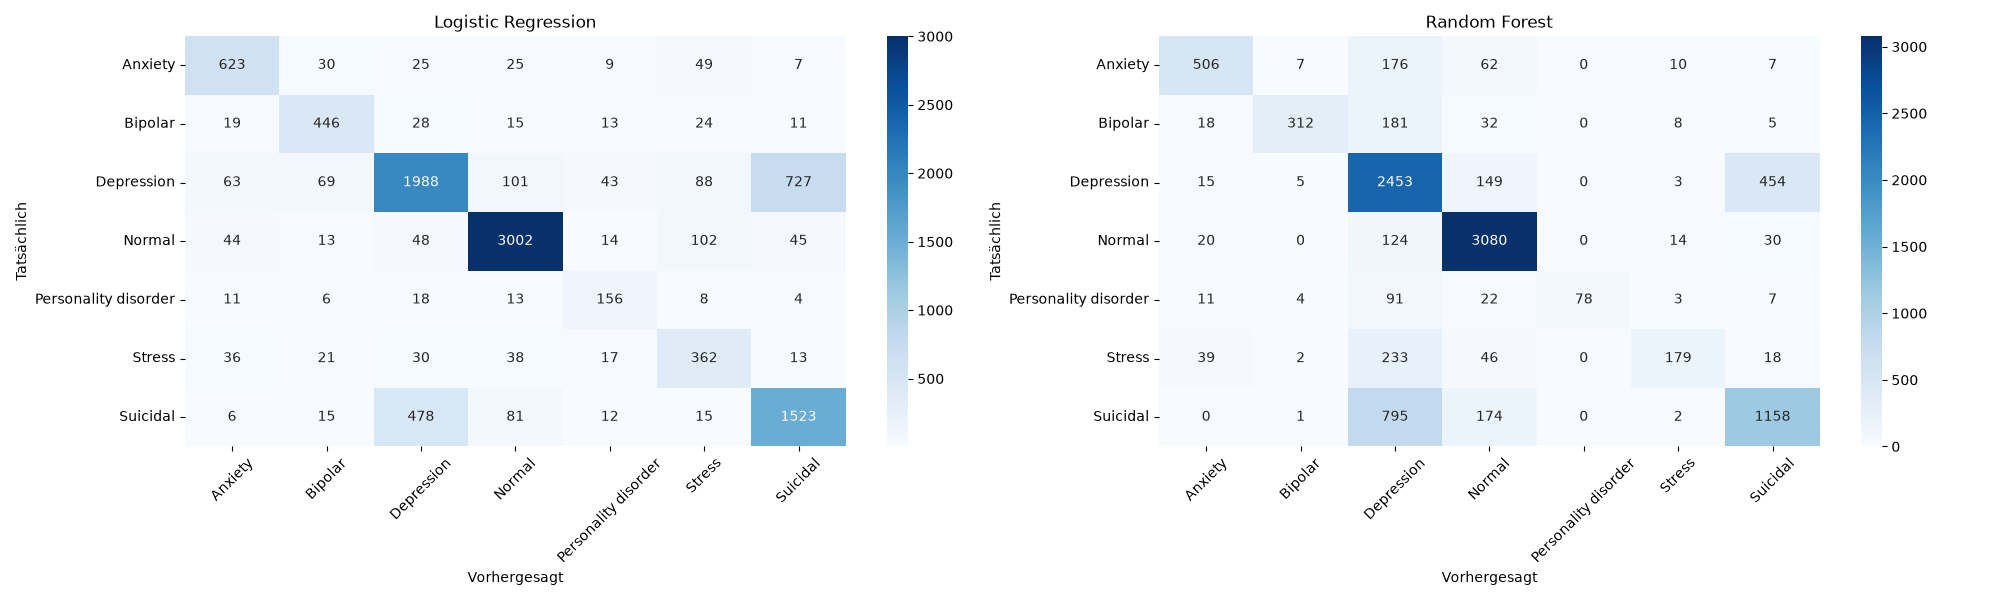
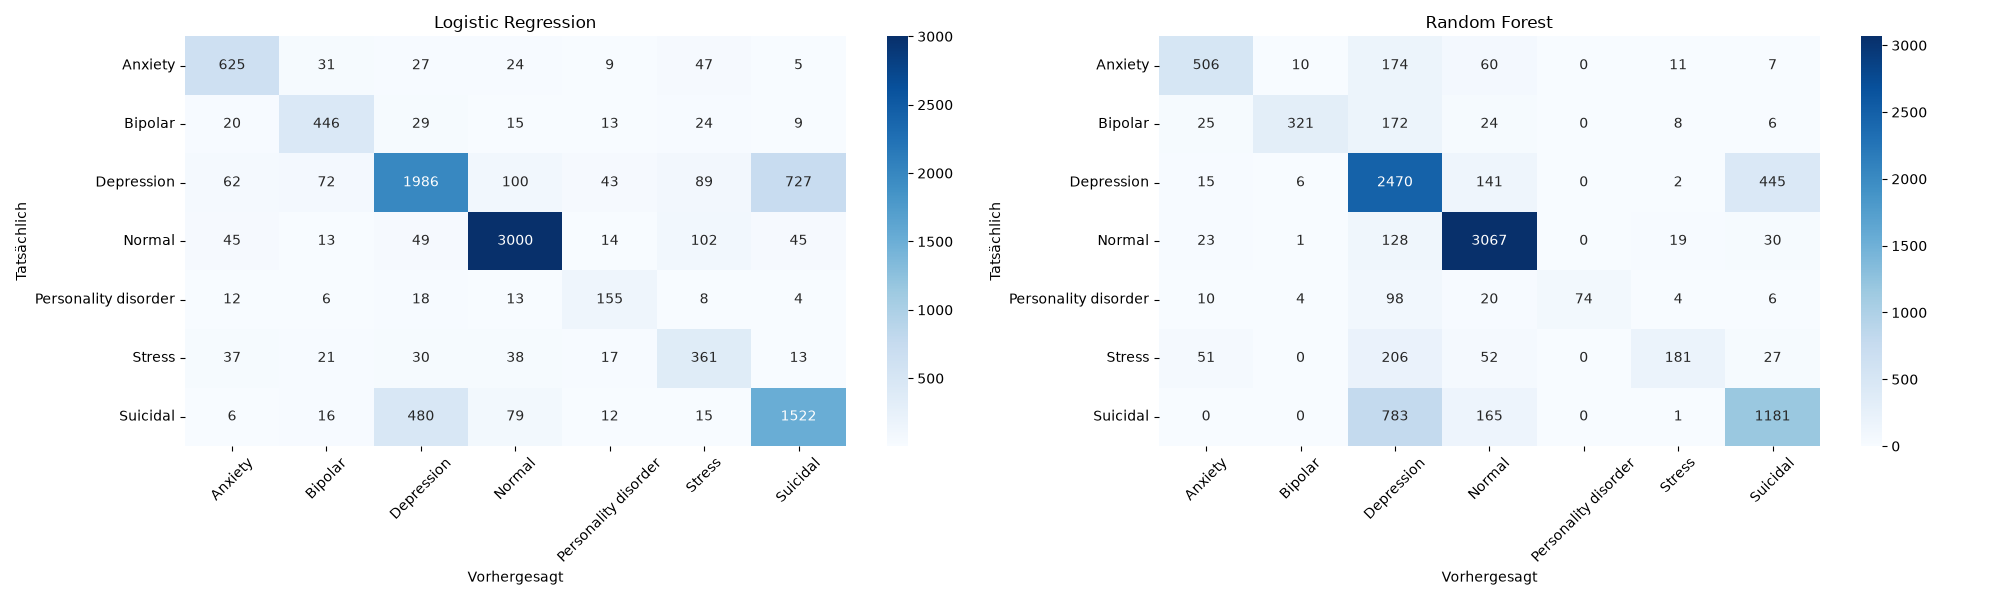
klassifikation_test.py gebaut. Grafiken erstellt

diff --git a/src/klassifikation_test.py b/src/klassifikation_test.py
@@ -1,0 +1,248 @@
+import pandas as pd
+import numpy as np
+from sklearn.preprocessing import StandardScaler
+from sklearn.linear_model import LogisticRegression
+from sklearn.ensemble import RandomForestClassifier
+from sklearn.metrics import classification_report, confusion_matrix
+from sklearn.feature_extraction.text import TfidfVectorizer
+from scipy.sparse import hstack, csr_matrix
+import matplotlib.pyplot as plt
+import seaborn as sns
+
+import os
+os.makedirs("../output/klassifikation_model_compar", exist_ok=True)
+
+import nltk
+from nltk.corpus import stopwords
+nltk.download('stopwords', quiet=True)
+
+from datenbereinigung import clean_data
+from feature_builder import create_all_features
+from training_test import train_testdaten_split
+
+
+# Daten laden & Feature bauen (einmal, wird von allen Experimenten geteilt)
+
+df0 = clean_data()
+df0, all_target_words = create_all_features(df0)
+train_df, test_df = train_testdaten_split(df0)
+
+macro_features = [
+    'word_count',
+    # 'pronoun_dominance',
+    # 'absolutist_ratio',
+    # 'absolute_uncertain_ratio',
+    # 'time_focus_score',
+    # 'future_count',
+    # 'past_count',
+    'self_pronouns_count',
+    'first_pl_pr_count',
+    'second_pronouns_count',
+    'third_pr_count',
+    'other_pl_pr_count',
+    'self_pr_other_count',
+    'question_marks_count',
+    'ellipses_count',
+    'exclamation_marks_count',
+    'sleep_words',
+]
+
+word_frequency_features = [col for col in df0.columns if col.startswith('freq_')]
+feature_cols = macro_features + word_frequency_features
+
+y_train = train_df['status']
+y_test = test_df['status']
+
+# Custom Stoppwörter: Negationen & Signalwörter bewusst BEHALTEN
+stop = set(stopwords.words('english'))
+keep = {'no', 'not', 'nor', 'never', 'none', 'nothing', 'cannot',
+        "n't", 'without', 'against'}
+custom_stop = stop - keep
+
+status_labels = sorted(df0['status'].unique())
+
+
+# Klassifikationsevaluation
+
+def classification_evaluation(vectorizer,
+                   models: dict,
+                   name: str = "",
+                   gewichtungs_faktor: float = 2,
+                   plot_confusion: bool = False,
+                   save_path: str = None) -> dict:
+
+    """
+    Trainiert & evaluiert Modelle mit gegebenem Vectorizer + numerischen Features.
+
+    Parameter
+    ---------
+    vectorizer : ein (noch nicht gefitteter) TfidfVectorizer o.Ä.
+                 -> die Vectorizer-Ebene passt du hier an (stop_words, ngram_range,
+                    max_features, ...).
+    models     : dict {name: modell-instanz}
+                 -> die Modell-Ebene passt du hier an (class_weight, C, ...).
+    name       : Beschriftung des Experiments (erscheint im Report & Plot-Titel).
+    gewichtungs_faktor : Faktor, mit dem die (skalierten) numerischen Features
+                 hochgewichtet werden, bevor sie mit TF-IDF kombiniert werden.
+    plot_confusion : wenn True, wird pro Experiment eine Confusion-Matrix-Grafik
+                 (ein Subplot pro Modell) erzeugt.
+    save_path  : optionaler Pfad zum Speichern der Grafik (nur wenn plot_confusion).
+
+    Rückgabe
+    --------
+    dict {modell-name: y_pred} – falls du die Vorhersagen weiterverwenden willst.
+    """
+    # --- TF-IDF aus dem Statement-Text ---
+    X_train_tfidf = vectorizer.fit_transform(train_df['statement'])
+    X_test_tfidf = vectorizer.transform(test_df['statement'])
+
+    # --- Numerische Features skalieren & gewichten ---
+    scaler = StandardScaler()
+    X_train_num = scaler.fit_transform(train_df[feature_cols]) * gewichtungs_faktor
+    X_test_num = scaler.transform(test_df[feature_cols]) * gewichtungs_faktor
+
+    # --- Kombinieren: numerische Features + TF-IDF ---
+    X_train_combined = hstack([csr_matrix(X_train_num), X_train_tfidf])
+    X_test_combined = hstack([csr_matrix(X_test_num), X_test_tfidf])
+
+    # --- Training & Evaluation je Modell ---
+    predictions = {}
+    for model_name, model in models.items():
+        model.fit(X_train_combined, y_train)
+        y_pred = model.predict(X_test_combined)
+        predictions[model_name] = y_pred
+        print(f"\n{name} – {model_name}:\n",
+              classification_report(y_test, y_pred))
+
+    # --- Optional: Confusion Matrizen ---
+    if plot_confusion:
+        n = len(predictions)
+        fig, axes = plt.subplots(1, n, figsize=(10 * n, 6))
+        if n == 1:                     # bei einem Modell ist axes kein Array
+            axes = [axes]
+        for ax, (model_name, y_pred) in zip(axes, predictions.items()):
+            sns.heatmap(
+                confusion_matrix(y_test, y_pred, labels=status_labels),
+                annot=True, fmt="d", cmap="Blues",
+                xticklabels=status_labels, yticklabels=status_labels, ax=ax,
+            )
+            ax.set_title(f"{model_name} – {name}")
+            ax.set_xlabel("Vorhergesagt")
+            ax.set_ylabel("Tatsächlich")
+            ax.tick_params(axis='x', rotation=45)
+        plt.tight_layout()
+        if save_path:
+            plt.savefig(save_path)
+        #plt.show()
+        plt.close(fig)
+
+    return predictions
+
+# Experimente (aus main.py oder direkt hier aufrufbar)
+if __name__ == "__main__":
+    # Ausgangspunkt aus klassifikation.py (sklearn stopwords, ohne Negationen, Unigramme)
+    classification_evaluation(
+        vectorizer=TfidfVectorizer(max_features=5000, stop_words='english',
+                                   min_df=3, max_df=0.7),
+        models={
+            "Logistic Regression": LogisticRegression(max_iter=2000, C=10,
+                                                      class_weight="balanced"),
+            "Random Forest": RandomForestClassifier(n_estimators=100, random_state=42,
+                                                    n_jobs=-1),
+        },
+        name="sklearn stopwords, ohne Negationen, Unigramme",
+        plot_confusion=True,
+        #save_path="../output/klassifikation_model_compar/model_comparison_baseline_sklearn_sw.png",
+    )
+
+    # Beste Konfiguration (Negationen + Bigramme, class_weight balanced)
+    classification_evaluation(
+        vectorizer=TfidfVectorizer(max_features=5000, stop_words=list(custom_stop),
+                                   min_df=3, max_df=0.7, ngram_range=(1, 2)),
+        models={
+            "Logistic Regression": LogisticRegression(max_iter=2000, C=10,
+                                                      class_weight="balanced"),
+            "Random Forest": RandomForestClassifier(n_estimators=100, random_state=42,
+                                                    n_jobs=-1, class_weight="balanced"),
+        },
+        name="Negationen + Bigramme, class_weight balanced",
+        plot_confusion=True,
+        #save_path="../output/klassifikation_model_compar/model_comparison_neg_bigr_balanced.png",
+    )
+
+    # Konfiguration ohne class_weight balanced
+    classification_evaluation(
+        vectorizer=TfidfVectorizer(max_features=5000, stop_words=list(custom_stop),
+                                   min_df=3, max_df=0.7, ngram_range=(1, 2)),
+        models={
+            "Logistic Regression": LogisticRegression(max_iter=2000, C=10,
+                                                      class_weight="balanced"),
+            "Random Forest": RandomForestClassifier(n_estimators=100, random_state=42,
+                                                    n_jobs=-1),
+        },
+        name="Negationen + Bigramme",
+        plot_confusion=True,
+        #save_path="../output/klassifikation_model_compar/model_comparison_neg_bigr_rf_unbalanced.png",
+    )
+
+    # Konfiguration mit Negationen und Unigrammen (Effekt der Bigramme isolieren)
+    classification_evaluation(
+        vectorizer=TfidfVectorizer(max_features=5000, stop_words=list(custom_stop),
+                                   min_df=3, max_df=0.7),
+        models={
+            "Logistic Regression": LogisticRegression(max_iter=2000, C=10,
+                                                      class_weight="balanced"),
+            "Random Forest": RandomForestClassifier(n_estimators=100, random_state=42,
+                                                    n_jobs=-1, class_weight="balanced"),
+        },
+        name="Negationen und Unigramme",
+        plot_confusion=True,
+        #save_path="../output/klassifikation_model_compar/model_comparison_neg_unigramme.png",
+    )
+
+    # Verworfene Konfiguration mit 10k max features (Negationen + Bigramme, class_weight balanced)
+    classification_evaluation(
+        vectorizer=TfidfVectorizer(max_features=10000, stop_words=list(custom_stop),
+                                   min_df=3, max_df=0.7, ngram_range=(1, 2)),
+        models={
+            "Logistic Regression": LogisticRegression(max_iter=2000, C=10,
+                                                      class_weight="balanced"),
+            "Random Forest": RandomForestClassifier(n_estimators=100, random_state=42,
+                                                    n_jobs=-1, class_weight="balanced"),
+        },
+        name="Negationen + Bigramme, class_weight balanced, 10k max features",
+        plot_confusion=True,
+        #save_path="../output/klassifikation_model_compar/model_comparison_neg_bigr_balanced_10k.png",
+    )
+
+    # Verworfene Konfiguration (Negationen + Bigramme, class_weight balanced_subsample)
+    classification_evaluation(
+        vectorizer=TfidfVectorizer(max_features=5000, stop_words=list(custom_stop),
+                                   min_df=3, max_df=0.7, ngram_range=(1, 2)),
+        models={
+            "Logistic Regression": LogisticRegression(max_iter=2000, C=10,
+                                                      class_weight="balanced"),
+            "Random Forest": RandomForestClassifier(n_estimators=100, random_state=42,
+                                                    n_jobs=-1, class_weight="balanced_subsample"),
+        },
+        name="Negationen + Bigramme, class_weight balanced_subsample",
+        plot_confusion=True,
+        #save_path="../output/klassifikation_model_compar/model_comparison_neg_bigr_subsample.png",
+    )
+
+    # Verworfene Konfiguration (Negationen + Bigramme, sublinear_tf in Vectorizer)
+    classification_evaluation(
+        vectorizer=TfidfVectorizer(max_features=5000, stop_words=list(custom_stop),
+                                   min_df=3, max_df=0.7, ngram_range=(1, 2), sublinear_tf=True),
+        models={
+            "Logistic Regression": LogisticRegression(max_iter=2000, C=10,
+                                                      class_weight="balanced"),
+            "Random Forest": RandomForestClassifier(n_estimators=100, random_state=42,
+                                                    n_jobs=-1, class_weight="balanced"),
+        },
+        name="Negationen + Bigramme, sublinear_tf in Vectorizer",
+        plot_confusion=True,
+        #save_path="../output/klassifikation_model_compar/model_comparison_neg_bigr_sublineartf.png",
+    )
+
+    # Weitere Experimente möglich

diff --git a/src/klassifikation.py b/src/klassifikation.py
@@ -72,6 +72,7 @@ X_test_combined = hstack([csr_matrix(X_test_num), X_test_tfidf])
 
 
 # MODELL 1: LOGISTIC REGRESSION
+print("\n\n\n Testen nur mit eingebauten Stoppwörtern: ")
 model_lr = LogisticRegression(max_iter=2000, C = 10, class_weight="balanced", solver = 'lbfgs')
 model_lr.fit(X_train_combined, y_train)
 y_pred_lr = model_lr.predict(X_test_combined)
@@ -106,5 +107,5 @@ axes[1].set_ylabel("Tatsächlich")
 axes[1].tick_params(axis='x', rotation=45)
 
 plt.tight_layout()
-plt.savefig("../output/klassifikation_model_compar/model_comparison_confusion_matrix.png")
+plt.savefig("../output/klassifikation_model_compar/model_comparison_confusion_matrix_only_sw.png")
 plt.show()